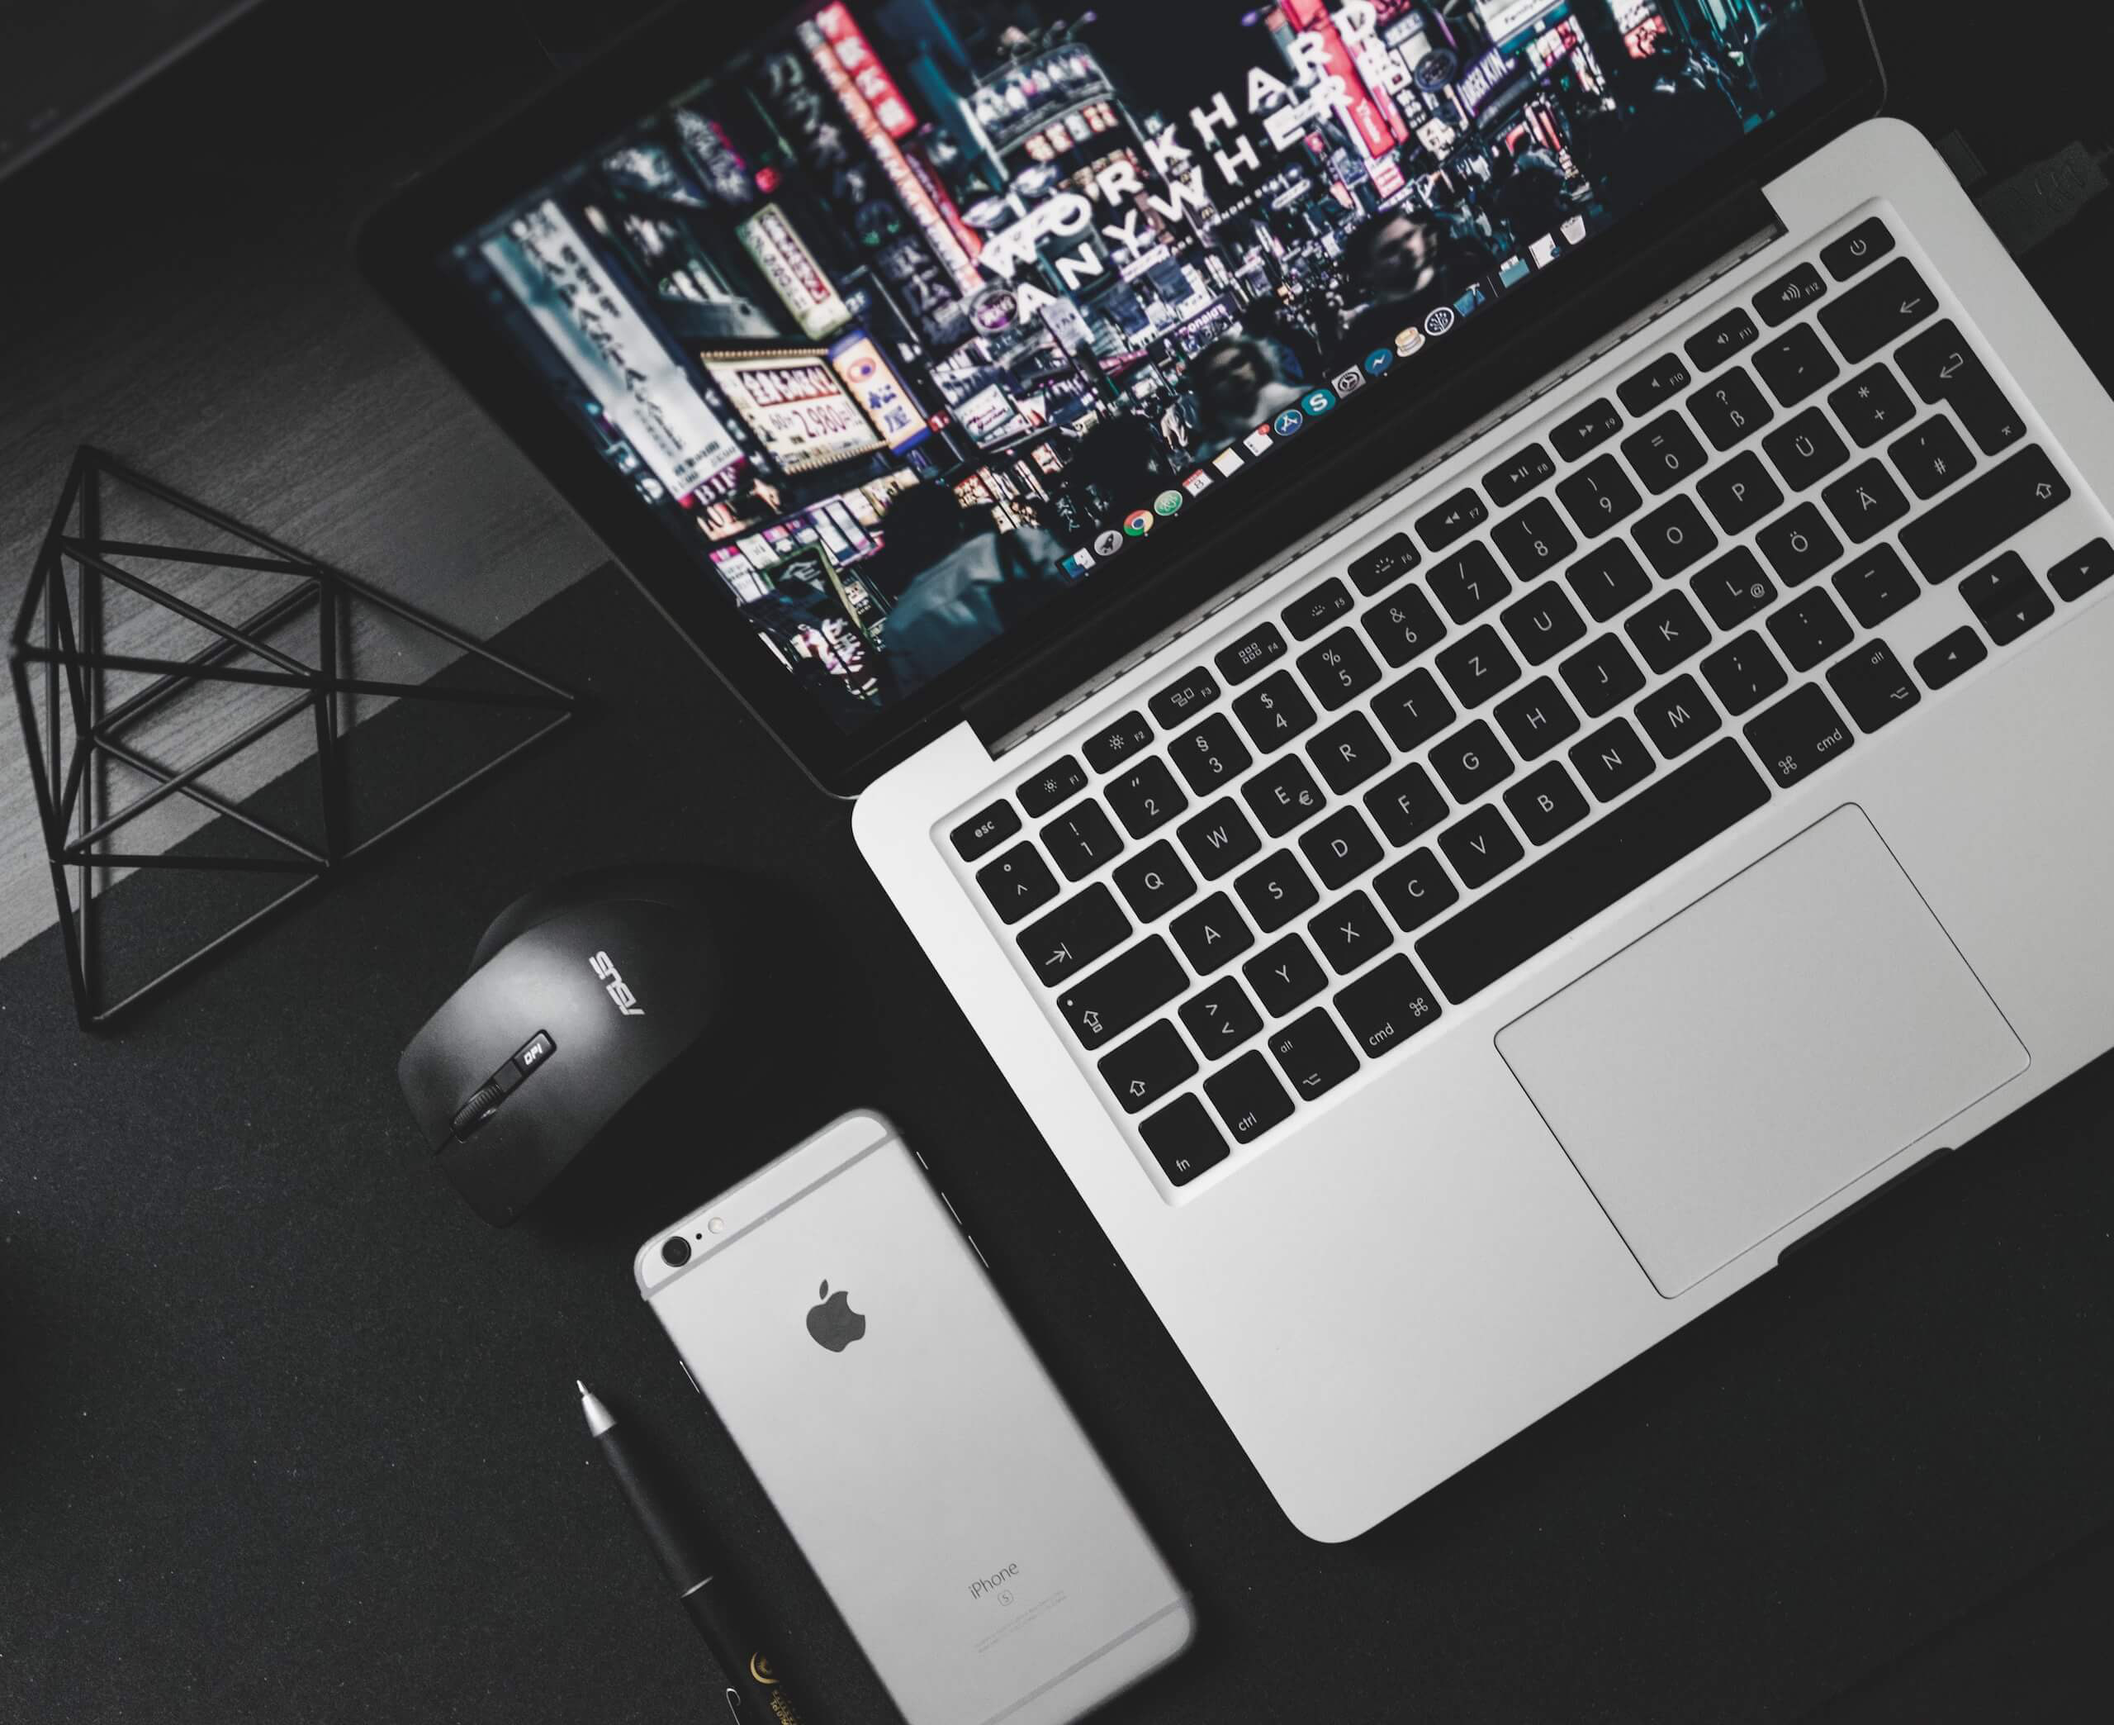
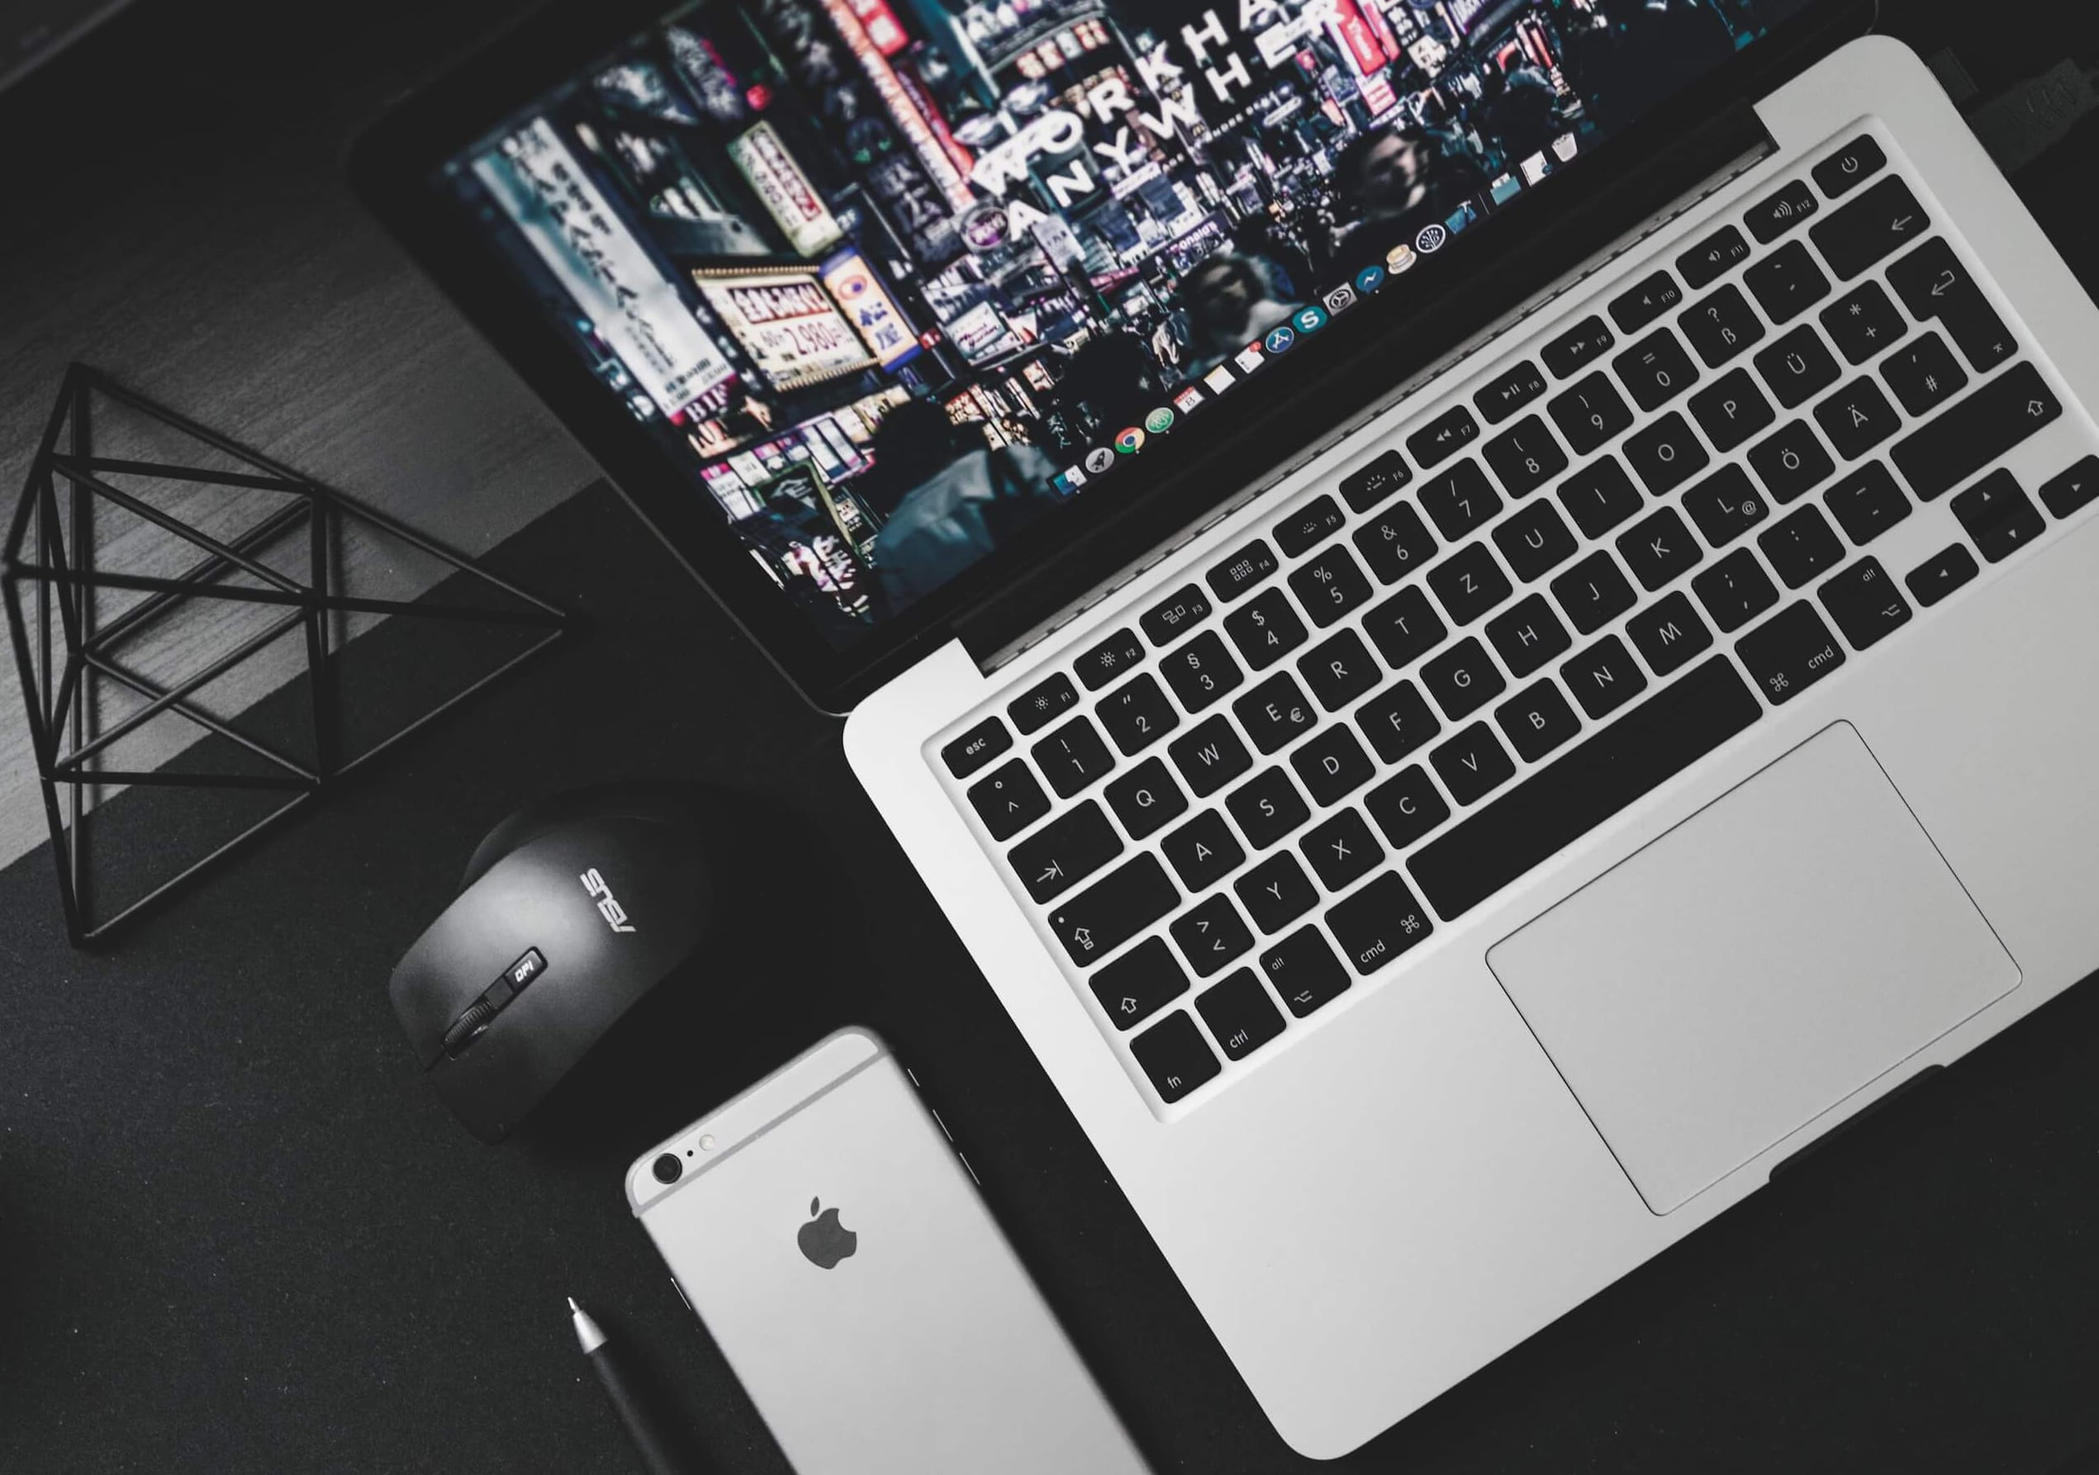
TASK: Use small images

diff --git a/components/Header/Header.tsx b/components/Header/Header.tsx
@@ -33,7 +33,7 @@ const PageHeader: React.FunctionComponent = () => {
                     bottom: 0;
                     left: 0;
                     right: 0;
-                    background-image: url(${require('../../assets/images/header.jpg?lqip')});
+                    background-image: url(${require('../../assets/images/header_small.jpg')});
                 }
             `}</style>
             <div className={styles.headerContent}>
